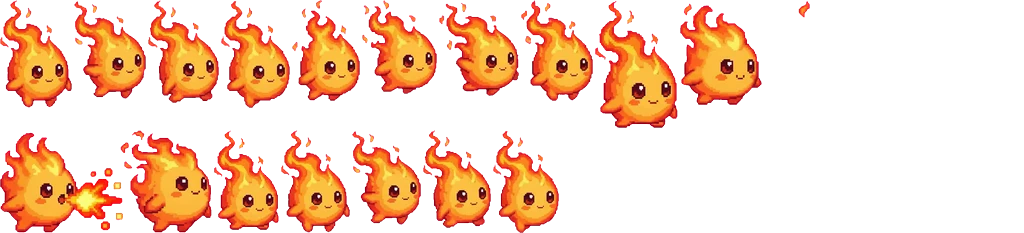
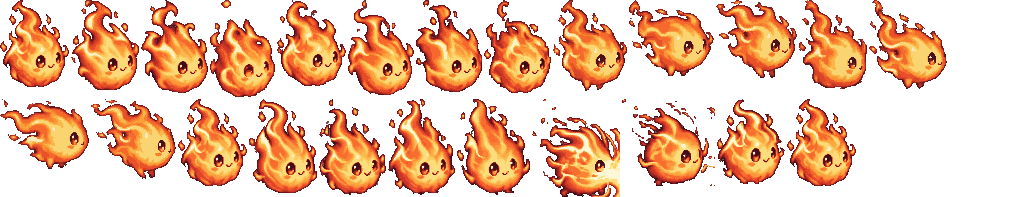
Monstruos de los mundos 1-5 y el Guardián Colmillo Ancestral en el estilo nuevo; versión 1.4.1 (versionCode 7)
Claude-Session: https://claude.ai/code/session_01C2SB4oU3LiuVGzsNuHyfze

diff --git a/www/js/mon_data.js b/www/js/mon_data.js
@@ -1,3 +1,3 @@
 /* Generado por tools/art/build_monsters.py y build_monsters2.py — no editar a mano. */
 'use strict';
-const MON_ANIM = {"tofu":{"bh":100,"move":[[0,0,72,108,38.5,107.3],[74,0,72,99,41.2,99.0],[148,0,71,103,40.2,102.6],[221,0,69,108,36.8,107.3],[292,0,68,101,36.0,100.6],[362,0,75,94,42.4,93.9],[439,0,80,96,48.5,95.8],[521,0,72,101,39.9,101.0]],"attack":[[595,0,83,128,45.5,127.4],[680,0,130,105,41.0,105.1],[0,130,212,103,174.7,102.5]],"hurt":[[214,130,65,100,35.7,100.0]],"idle":[[281,130,69,103,36.7,102.3],[352,130,69,95,39.3,94.3],[423,130,68,98,38.3,97.7],[493,130,66,103,35.0,102.3]]},"bouftou":{"bh":100,"move":[[0,209,101,101,50.5,101.0],[103,209,101,104,50.5,106.0],[206,209,102,107,51.5,111.0],[310,209,100,110,48.5,111.0],[412,209,100,104,48.0,105.0],[514,209,100,102,48.5,103.0],[616,209,101,105,50.5,108.0],[719,209,103,108,51.5,109.0]],"attack":[[0,323,100,104,49.5,104.5],[102,323,99,107,51.5,108.0],[203,323,104,110,53.5,110.0],[309,323,102,109,52.5,109.0],[413,323,102,107,49.5,107.0],[517,323,106,102,53.5,102.0]],"hurt":[[0,545,100,110,48.5,110.0]],"idle":[[0,437,101,101,50.5,101.0],[103,437,101,104,50.5,105.0],[206,437,101,101,50.5,101.0],[309,437,100,104,49.5,105.5]]},"arakne":{"bh":100,"move":[[0,0,110,100,40.5,100.0],[112,0,110,100,40.6,100.0],[224,0,110,100,41.3,100.0],[336,0,110,100,40.7,99.6],[448,0,110,100,41.3,100.0],[560,0,111,100,41.4,99.6],[673,0,110,100,41.1,100.0],[785,0,110,100,42.2,99.6]],"attack":[[897,0,100,101,40.4,100.2],[0,103,123,94,44.1,93.4],[125,103,116,102,57.2,102.1],[243,103,109,100,43.0,99.8]],"hurt":[[354,103,100,100,40.4,100.0]],"idle":[[456,103,110,100,40.5,100.0],[568,103,110,100,40.6,100.0],[680,103,110,100,41.3,100.0],[792,103,110,100,40.7,99.6]]},"pissenlit":{"bh":100,"move":[[0,0,84,100,39.1,99.8],[86,0,81,100,39.0,99.8],[169,0,84,101,42.1,100.2],[255,0,80,97,40.9,96.4],[337,0,84,101,44.1,100.2],[423,0,85,101,44.6,100.2]],"attack":[[510,0,81,100,40.9,100.0],[593,0,81,100,43.3,100.0],[676,0,94,99,57.9,99.1],[772,0,80,101,36.5,100.3]],"hurt":[[854,0,81,100,40.9,100.0]],"idle":[[937,0,84,100,39.2,100.0],[0,103,81,100,39.1,100.0],[83,103,84,101,42.2,100.5],[169,103,80,97,41.0,96.7]]},"craqueleur":{"bh":100,"move":[[0,0,114,101,47.9,100.0],[116,0,106,101,51.2,100.0],[224,0,96,101,35.5,100.6],[322,0,107,101,54.6,100.0],[431,0,91,101,42.3,100.6],[524,0,114,101,46.9,100.0]],"attack":[[640,0,104,97,45.5,96.2],[746,0,95,120,44.5,120.1],[843,0,92,95,47.3,94.5],[0,122,102,104,51.9,103.8]],"hurt":[[104,122,109,100,47.3,100.0]],"idle":[[215,122,114,101,47.9,100.0],[331,122,106,101,51.2,100.0],[439,122,96,101,35.5,100.6],[537,122,107,101,54.6,100.0]]},"bouftouRoyal":{"bh":100,"move":[[0,0,151,100,63.6,99.5],[153,0,151,100,63.4,100.0],[306,0,148,98,63.0,97.1],[456,0,149,100,62.4,99.5],[607,0,149,100,65.9,100.0],[758,0,149,100,63.3,100.0],[0,102,148,100,63.8,100.0],[150,102,148,100,60.7,100.0]],"attack":[[300,102,144,126,55.7,125.2],[446,102,147,98,57.7,97.4],[595,102,152,101,72.0,100.7],[749,102,144,100,66.1,99.3]],"hurt":[[895,102,115,100,44.5,100.0]],"idle":[[0,230,151,100,63.9,100.0],[153,230,151,101,63.7,100.5],[306,230,149,98,63.3,97.6],[457,230,150,100,62.7,100.0]]},"reinaTeje":{"bh":100,"move":[[0,0,136,101,61.5,100.3],[138,0,125,96,65.8,95.5],[265,0,137,100,66.6,99.7],[404,0,139,101,69.5,100.3],[545,0,134,97,66.2,96.2],[681,0,140,101,65.4,100.3]],"attack":[[823,0,132,100,71.3,99.8],[0,103,144,107,74.3,106.3],[146,103,144,101,77.7,100.2],[292,103,132,100,73.0,99.8]],"hurt":[[426,103,132,100,71.4,100.0]],"idle":[[560,103,136,101,61.5,100.3],[698,103,125,96,65.8,95.5],[825,103,137,100,66.6,99.7],[0,212,139,101,69.5,100.3]]},"colosoHielo":{"bh":100,"move":[[0,0,87,101,45.8,100.7],[89,0,90,99,51.7,98.1],[181,0,87,101,43.2,101.1],[270,0,87,100,48.3,99.6],[359,0,79,98,31.5,97.8],[440,0,89,100,41.3,100.0],[531,0,88,100,43.7,100.0],[621,0,87,101,43.5,100.4]],"attack":[[710,0,92,103,40.8,102.6],[804,0,100,105,49.6,104.7],[906,0,96,100,54.7,99.4],[0,107,90,98,42.0,98.0]],"hurt":[[92,107,90,100,39.7,100.0]],"idle":[[184,107,87,101,45.7,100.6],[273,107,90,98,51.6,98.0],[365,107,87,101,43.1,100.9],[454,107,87,100,48.2,99.4]]},"tofuRoyal":{"bh":100,"move":[[0,0,77,100,45.9,100.0],[79,0,79,101,46.6,100.4],[160,0,87,100,43.7,99.6],[249,0,80,92,43.8,92.1],[331,0,75,101,44.3,100.8]],"attack":[[408,0,103,74,40.5,73.4],[513,0,105,91,62.6,90.6],[620,0,104,110,48.5,109.4],[726,0,103,110,65.3,109.4]],"hurt":[[831,0,153,110,60.3,109.2]],"idle":[[0,112,77,101,46.0,100.2],[79,112,79,101,46.7,100.6],[160,112,87,100,43.8,99.8],[249,112,81,93,43.9,92.3]]},"hechicero":{"bh":100,"move":[[0,0,78,83,30.2,82.5],[80,0,83,100,44.3,100.0],[165,0,86,84,38.3,83.5],[253,0,85,100,43.9,100.0],[340,0,69,100,37.6,100.0],[411,0,63,84,28.2,83.5],[476,0,70,100,30.7,100.0]],"attack":[[548,0,56,75,26.8,74.6],[606,0,63,112,22.8,111.3],[671,0,70,130,38.5,129.4],[743,0,64,111,33.3,110.5]],"hurt":[[809,0,75,100,36.0,100.0]],"idle":[[886,0,85,90,32.9,89.9],[0,132,90,110,48.3,109.0],[92,132,94,92,41.8,91.0],[188,132,93,110,47.8,109.0]]},"S_ceniza":{"bh":100,"move":[[0,0,129,101,53.8,100.4],[131,0,129,100,54.5,100.0],[262,0,131,100,53.2,100.0],[395,0,126,100,52.6,100.0],[523,0,128,100,50.9,99.2],[653,0,129,100,53.0,99.6],[784,0,129,100,54.4,99.6],[0,103,127,101,52.3,100.4]],"attack":[[129,103,128,100,54.6,100.0],[259,103,147,100,68.2,100.0],[408,103,150,100,75.4,99.6],[560,103,129,100,55.9,100.0]],"hurt":[[691,103,128,100,54.6,100.0]],"idle":[[821,103,129,101,53.8,100.4],[0,206,129,100,54.5,100.0],[131,206,131,100,53.2,100.0],[264,206,126,100,52.6,100.0]]},"S_pantano":{"bh":100,"move":[[0,0,169,100,67.7,99.7],[171,0,169,100,67.5,99.7],[342,0,168,100,67.0,99.7],[512,0,167,100,67.1,99.7],[681,0,169,101,68.1,100.3],[852,0,169,101,68.1,100.3],[0,103,168,101,67.8,100.3],[170,103,167,101,68.0,100.3]],"attack":[[339,103,312,282,148.3,281.5],[653,103,162,207,76.8,206.5]],"hurt":[[0,387,319,289,152.1,288.7]],"idle":[[321,387,170,101,67.9,100.0],[493,387,170,101,67.7,100.0],[665,387,168,101,67.2,100.0],[835,387,168,101,67.3,100.0]]},"S_glaciar":{"bh":100,"move":[[0,0,68,100,33.1,99.3],[70,0,77,101,38.2,100.2],[149,0,91,101,31.2,100.7],[242,0,107,100,32.4,99.8],[351,0,81,99,29.4,98.4],[434,0,106,103,32.2,102.1]],"attack":[[542,0,76,100,37.2,99.9],[620,0,86,100,51.6,100.1],[708,0,77,131,41.4,130.9],[787,0,95,98,58.0,97.7]],"hurt":[[884,0,76,100,37.3,100.0]],"idle":[[0,133,68,100,33.1,99.3],[70,133,77,101,38.2,100.2],[149,133,91,101,31.2,100.7],[242,133,107,100,32.4,99.8]]},"S_desierto":{"bh":100,"move":[[0,0,66,101,22.2,100.2],[68,0,64,101,22.0,100.2],[134,0,64,100,22.3,99.8],[200,0,67,100,23.7,99.8],[269,0,56,100,21.7,99.8],[327,0,59,101,21.5,100.2]],"attack":[[388,0,83,93,33.2,92.2],[473,0,102,100,23.4,100.0],[577,0,107,105,47.3,104.8],[686,0,90,100,26.5,100.0]],"hurt":[[778,0,90,100,36.0,100.0]],"idle":[[870,0,66,101,22.2,100.2],[938,0,64,101,22.0,100.2],[0,107,64,100,22.3,99.8],[66,107,67,100,23.7,99.8]]},"S_abismo":{"bh":100,"move":[[0,0,75,107,36.3,106.4],[77,0,80,107,41.7,106.4],[159,0,79,107,41.8,106.9],[240,0,78,107,42.3,106.9],[320,0,79,107,41.2,106.9],[401,0,78,108,36.4,107.3],[481,0,78,110,36.0,109.2],[561,0,78,109,36.0,108.7],[641,0,79,110,36.4,109.2],[722,0,78,110,36.3,109.2],[802,0,78,110,36.5,109.2],[882,0,79,110,36.3,109.2]],"attack":[[0,112,78,113,34.8,113.2],[80,112,94,113,31.4,112.5],[176,112,119,113,43.8,112.2],[297,112,92,113,58.0,112.5]],"hurt":[[391,112,77,112,34.4,111.8]],"idle":[[470,112,81,115,39.0,114.2],[553,112,86,115,44.8,114.2],[641,112,85,115,44.9,114.7],[728,112,84,115,45.4,114.7]]},"cangrejo":{"bh":100,"move":[[0,0,125,101,61.5,100.0],[127,0,127,100,51.6,99.3],[256,0,128,101,48.4,100.0],[386,0,125,101,62.1,100.0],[513,0,124,99,60.1,98.7],[639,0,126,101,62.4,100.0]],"attack":[[767,0,136,100,54.6,100.0],[0,103,138,100,54.8,100.0],[140,103,169,106,54.9,105.3],[311,103,137,99,66.5,98.6]],"hurt":[[450,103,136,100,54.6,100.0]],"idle":[[588,103,125,101,61.5,100.0],[715,103,127,100,51.6,99.3],[844,103,128,101,48.4,100.0],[0,211,125,101,62.1,100.0]]},"medusa":{"bh":100,"move":[[0,0,53,102,26.0,101.3],[55,0,48,99,24.8,98.7],[105,0,55,100,29.2,100.1],[162,0,61,100,33.6,100.1],[225,0,64,100,35.8,99.9],[291,0,50,99,23.9,99.0]],"attack":[[343,0,67,104,41.1,103.4],[412,0,81,88,50.1,87.8],[495,0,85,97,52.5,96.6],[582,0,78,105,35.1,104.4]],"hurt":[[662,0,65,100,39.8,100.0]],"idle":[[729,0,53,101,25.9,101.2],[784,0,48,99,24.7,98.6],[834,0,55,100,29.1,100.0],[891,0,61,100,33.6,100.0]]},"triton":{"bh":100,"move":[[0,0,105,100,41.2,99.0],[107,0,105,100,43.4,99.0],[214,0,104,102,41.9,101.4],[320,0,104,100,39.5,99.0],[426,0,105,101,39.3,101.0],[533,0,104,101,38.9,101.0]],"attack":[[639,0,99,97,47.6,97.1],[740,0,109,100,56.8,99.4],[851,0,109,104,52.8,103.9],[0,106,95,101,51.2,100.6]],"hurt":[[97,106,102,100,49.0,100.0]],"idle":[[201,106,106,100,41.6,100.0],[309,106,106,100,43.8,100.0],[417,106,105,103,42.3,102.4],[524,106,105,100,39.8,100.0]]},"kraken":{"bh":100,"move":[[0,0,110,99,59.4,98.4],[112,0,108,104,55.2,103.2],[222,0,103,104,49.0,103.2],[327,0,102,104,53.3,103.2],[431,0,102,100,55.7,100.0],[535,0,104,100,56.3,100.0],[641,0,103,100,55.2,100.0],[746,0,103,100,55.4,100.0]],"attack":[[851,0,98,100,43.9,100.2],[0,106,103,112,55.9,111.1],[105,106,98,96,49.9,95.8],[205,106,86,100,41.8,99.8]],"hurt":[[293,106,98,100,43.8,100.0]],"idle":[[393,106,107,96,57.6,95.4],[502,106,104,100,53.5,100.0],[608,106,100,100,47.5,100.0],[710,106,98,100,51.6,100.0]]},"S_hundida":{"bh":100,"move":[[0,0,74,100,42.3,100.0],[76,0,76,100,43.8,100.0],[154,0,77,100,43.0,100.0],[233,0,75,100,43.2,100.0],[310,0,76,100,44.6,100.0],[388,0,79,100,44.4,100.0]],"attack":[[469,0,78,107,38.8,106.6],[549,0,82,83,39.8,82.7],[633,0,87,106,47.1,105.3],[722,0,80,98,42.2,97.5]],"hurt":[[804,0,73,100,36.4,100.0]],"idle":[[879,0,74,100,42.3,100.0],[0,109,76,100,43.8,100.0],[78,109,77,100,43.0,100.0],[157,109,75,100,43.2,100.0]]},"duende":{"bh":100,"move":[[0,0,76,100,34.3,99.6],[78,0,82,105,40.7,105.0],[162,0,83,107,39.9,107.0],[247,0,84,99,41.0,98.4],[333,0,81,100,40.4,100.0],[416,0,74,100,34.3,100.0]],"attack":[[492,0,83,93,40.1,92.4],[577,0,94,100,35.7,98.3],[673,0,94,102,34.0,101.7],[769,0,82,103,45.6,102.8]],"hurt":[[853,0,90,100,43.4,100.0]],"idle":[[945,0,74,98,33.5,97.3],[0,109,80,103,39.8,102.7],[82,109,81,105,38.9,104.5],[165,109,83,97,40.1,96.2]]},"polilla":{"bh":100,"move":[[0,0,73,106,39.8,105.1],[75,0,18,62,14.0,61.8],[95,0,74,103,28.3,102.4],[171,0,70,101,44.9,100.4],[243,0,26,74,21.9,50.0],[271,0,64,100,29.5,99.6]],"attack":[[337,0,71,98,37.8,97.4],[410,0,80,110,44.9,109.2],[492,0,94,116,39.6,95.4],[588,0,70,103,35.8,102.6]],"hurt":[[660,0,73,100,38.8,100.0]],"idle":[[735,0,72,104,39.3,103.7],[809,0,17,61,13.8,61.0],[828,0,73,101,27.9,101.0],[903,0,70,99,44.3,99.0]]},"golemC":{"bh":100,"move":[[0,0,90,101,45.0,100.2],[92,0,85,100,39.7,99.8],[179,0,91,101,45.4,100.2],[272,0,87,101,37.9,100.2],[361,0,81,100,38.6,99.8],[444,0,90,100,47.7,99.8]],"attack":[[536,0,92,100,42.8,99.4],[630,0,101,101,44.0,100.6],[733,0,101,128,48.8,127.4],[836,0,89,100,49.6,99.4]],"hurt":[[927,0,93,100,43.0,100.0]],"idle":[[0,130,90,100,44.9,100.0],[92,130,85,100,39.7,99.6],[179,130,91,100,45.3,100.0],[272,130,87,100,37.8,100.0]]},"ciervo":{"bh":100,"move":[[0,0,67,100,26.9,100.0],[69,0,69,96,29.4,95.8],[140,0,61,106,24.3,106.0],[203,0,69,101,27.6,100.3],[274,0,73,100,27.1,100.0]],"attack":[[349,0,59,111,27.7,111.1],[410,0,62,95,37.8,94.8],[474,0,62,89,15.2,89.3],[538,0,55,111,23.5,110.7]],"hurt":[[595,0,53,100,24.9,100.0]],"idle":[[650,0,67,100,26.9,99.8],[719,0,69,96,29.3,95.6],[790,0,61,106,24.3,105.9],[853,0,69,100,27.6,100.2]]},"S_cristal":{"bh":100,"move":[[0,0,72,104,39.0,103.7],[74,0,58,103,31.5,102.6],[134,0,64,100,30.6,100.0],[200,0,64,99,27.7,98.9],[266,0,71,104,36.1,104.0]],"attack":[[339,0,64,95,28.6,95.1],[405,0,67,107,39.4,106.7],[474,0,76,98,27.8,97.9],[552,0,70,102,39.2,102.1]],"hurt":[[624,0,67,100,30.1,100.0]],"idle":[[693,0,72,105,39.2,104.3],[767,0,59,103,31.6,103.2],[828,0,65,101,30.8,100.6],[895,0,64,100,27.9,99.4]]},"guardiaR":{"bh":100,"move":[[0,0,64,102,33.1,101.8],[66,0,32,96,16.4,95.6],[100,0,66,99,35.5,98.5],[168,0,66,102,39.8,101.5],[236,0,33,102,25.0,101.5],[271,0,55,99,30.9,98.2]],"attack":[[328,0,99,99,50.6,98.9],[429,0,111,100,50.5,100.0],[542,0,111,100,50.4,100.0],[655,0,101,108,60.9,107.6]],"hurt":[[758,0,100,100,51.2,100.0]],"idle":[[860,0,64,102,33.1,101.8],[926,0,32,96,16.4,95.6],[0,110,66,99,35.5,98.5],[68,110,66,102,39.8,101.5]]},"ojo":{"bh":100,"move":[[0,0,111,101,48.7,100.0],[113,0,107,101,44.5,100.0],[222,0,111,101,48.7,100.0],[335,0,106,101,44.3,100.0],[443,0,111,101,50.5,100.0],[556,0,110,101,56.2,100.0]],"attack":[[668,0,115,101,50.9,100.4],[785,0,119,100,51.9,100.0],[0,103,127,100,55.4,99.6],[129,103,120,100,51.0,100.0]],"hurt":[[251,103,114,100,50.7,100.0]],"idle":[[367,103,111,101,48.7,100.0],[480,103,107,101,44.5,100.0],[589,103,111,101,48.7,100.0],[702,103,106,101,44.3,100.0]]},"sombraC":{"bh":100,"move":[[0,0,73,100,38.6,99.6],[75,0,73,100,38.3,100.0],[150,0,73,98,38.0,98.0],[225,0,72,98,38.1,98.0],[299,0,73,98,37.9,97.7],[374,0,72,98,37.9,97.7],[448,0,75,102,39.1,101.2],[525,0,75,102,39.4,101.2],[602,0,75,102,39.3,101.2],[679,0,76,101,38.1,100.8],[757,0,75,102,39.1,101.2]],"attack":[[834,0,88,100,39.0,100.0],[924,0,90,100,36.8,100.0],[0,104,95,100,44.6,100.0],[97,104,88,98,35.9,97.8]],"hurt":[[187,104,88,100,39.0,100.0]],"idle":[[277,104,74,101,39.1,100.8],[353,104,74,102,38.7,101.2],[429,104,74,100,38.5,99.2],[505,104,73,100,38.5,99.2]]},"carcelero":{"bh":100,"move":[[0,0,68,100,37.5,100.0],[70,0,71,101,42.4,100.4],[143,0,68,100,37.0,99.6],[213,0,70,100,42.3,99.6],[285,0,71,100,39.4,100.0],[358,0,67,101,37.4,100.4]],"attack":[[427,0,97,134,43.8,133.4],[526,0,90,108,33.7,107.6],[618,0,93,93,46.0,92.4],[713,0,108,92,49.4,91.7]],"hurt":[[823,0,73,100,32.8,100.0]],"idle":[[898,0,68,101,37.6,100.2],[0,136,71,101,42.5,100.6],[73,136,68,100,37.0,99.8],[143,136,70,100,42.4,99.8]]},"S_ciudadela":{"bh":100,"move":[[0,0,71,99,35.5,98.9],[73,0,66,103,36.1,102.2],[141,0,66,99,31.9,98.5],[209,0,67,111,37.1,109.3],[278,0,68,104,33.2,103.4],[348,0,70,102,31.6,101.5]],"attack":[[420,0,152,103,28.1,102.8],[574,0,226,108,190.8,107.4]],"hurt":[[802,0,148,100,27.3,100.0]],"idle":[[0,113,73,102,36.4,101.3],[75,113,68,105,37.0,104.8],[145,113,68,101,32.7,101.0],[215,113,69,114,38.1,112.0]]}};
+const MON_ANIM = {"tofu":{"bh":88,"idle":[[0,0,69,87,35.6,88],[71,0,68,90,36.6,90],[141,0,67,93,36.6,93],[210,0,65,97,33.6,98],[277,0,69,86,35.6,87],[348,0,66,95,34.6,95],[416,0,66,92,35.6,92],[484,0,67,93,35.6,94]],"move":[[553,0,74,91,39.6,92],[629,0,85,76,46.6,94],[716,0,81,78,42.6,91],[799,0,68,89,30.6,89],[869,0,78,89,37.6,90],[0,99,89,70,46.6,87],[91,99,85,80,41.6,92]],"attack":[[178,99,69,87,35.6,88],[249,99,68,94,36.6,95],[319,99,67,96,34.6,96],[388,99,67,96,37.6,96],[457,99,73,96,44.6,96],[532,99,88,98,39.6,98],[622,99,93,87,44.6,87],[717,99,68,85,33.6,86]],"hurt":[[787,99,69,87,35.6,88]]},"bouftou":{"bh":100,"idle":[[0,0,105,100,56.1,100],[107,0,106,100,56.1,100],[215,0,108,100,57.1,100],[325,0,112,99,59.1,99],[439,0,113,98,60.1,98],[554,0,114,99,61.1,99],[670,0,115,98,62.1,98],[787,0,112,99,60.1,99]],"move":[[901,0,106,99,57.1,99],[0,102,103,95,55.1,97],[105,102,104,96,56.1,100],[211,102,105,99,56.1,103],[318,102,106,100,57.1,103],[426,102,106,100,57.1,100],[534,102,105,99,56.1,99]],"attack":[[641,102,105,100,56.1,100],[748,102,105,102,59.1,102],[855,102,108,110,63.1,110],[0,214,116,117,61.1,117],[118,214,122,117,64.1,117],[242,214,115,114,57.1,114],[359,214,117,103,60.1,103],[478,214,110,101,57.1,101]],"hurt":[[590,214,105,100,56.1,100]]},"arakne":{"bh":67,"idle":[[0,0,80,67,41.1,67],[82,0,80,67,41.1,67],[164,0,80,68,41.1,68],[246,0,80,67,41.1,67],[328,0,80,67,41.1,67],[410,0,80,67,41.1,67],[492,0,80,68,41.1,68],[574,0,80,67,41.1,67]],"move":[[656,0,82,65,43.1,67],[740,0,85,66,45.1,69],[827,0,77,68,36.1,68],[906,0,80,67,41.1,67],[0,70,82,66,43.1,69],[84,70,86,66,45.1,69],[172,70,82,67,42.1,67]],"attack":[[256,70,80,67,41.1,67],[338,70,73,66,39.1,70],[413,70,72,59,38.1,74],[487,70,74,67,37.1,81],[563,70,84,62,44.1,87],[649,70,88,46,45.1,69],[739,70,85,56,44.1,68],[826,70,84,65,43.1,67]],"hurt":[[912,70,80,67,41.1,67]]},"pissenlit":{"bh":82,"idle":[[0,0,66,81,30.2,82],[68,0,64,78,29.2,79],[134,0,65,82,29.2,83],[201,0,65,87,30.2,88],[268,0,64,91,30.2,92],[334,0,65,90,30.2,91],[401,0,65,87,30.2,88],[468,0,65,84,30.2,85]],"move":[[535,0,66,78,32.2,79],[603,0,66,84,31.2,85],[671,0,66,84,31.2,85],[739,0,65,78,30.2,78],[806,0,66,82,31.2,82],[874,0,67,86,31.2,86],[943,0,66,82,30.2,82]],"attack":[[0,93,66,81,30.2,82],[68,93,70,82,41.2,83],[140,93,67,84,41.2,85],[209,93,62,88,36.2,90],[273,93,64,87,20.2,88],[339,93,64,86,22.2,87],[405,93,66,82,30.2,83],[473,93,65,81,30.2,82]],"hurt":[[540,93,66,81,30.2,82]]},"craqueleur":{"bh":136,"idle":[[0,0,125,136,48.5,136],[127,0,125,143,48.5,143],[254,0,125,147,48.5,147],[381,0,124,135,47.5,135],[507,0,124,134,47.5,134],[633,0,124,141,47.5,141],[759,0,124,135,47.5,135],[885,0,125,135,48.5,135]],"move":[[0,149,125,134,48.5,134],[127,149,123,134,47.5,138],[252,149,121,136,46.5,140],[375,149,116,137,43.5,140],[493,149,113,136,42.5,136],[608,149,108,134,40.5,134],[718,149,105,138,39.5,138]],"attack":[[825,149,125,136,48.5,136],[0,289,133,137,52.5,137],[135,289,138,135,60.5,135],[275,289,133,149,61.5,149],[410,289,145,150,59.5,151],[557,289,119,135,27.5,136],[678,289,116,125,26.5,126],[796,289,119,128,37.5,129]],"hurt":[[0,441,125,136,48.5,136]]},"bouftouRoyal":{"bh":170,"idle":[[0,0,209,170,110.0,170],[211,0,212,170,113.0,170],[425,0,218,170,116.0,170],[645,0,225,169,120.0,169],[0,172,234,168,124.0,168],[236,172,235,168,124.0,168],[473,172,230,168,121.0,168],[705,172,226,168,119.0,168]],"move":[[0,342,213,166,114.0,166],[215,342,211,165,111.0,166],[428,342,208,168,112.0,170],[638,342,210,167,113.0,170],[0,512,214,164,113.0,167],[216,512,210,166,109.0,166],[428,512,204,169,106.0,169]],"attack":[[634,512,209,170,110.0,170],[0,684,220,166,122.0,167],[222,684,220,162,115.0,163],[444,684,223,171,120.0,172],[669,684,212,193,107.0,196],[0,879,228,177,117.0,178],[230,879,238,168,124.0,168],[470,879,238,167,124.0,168]],"leap":[[710,879,209,170,110.0,170],[0,1058,210,167,111.0,167],[212,1058,205,186,113.0,186],[419,1058,191,220,105.0,220],[612,1058,210,182,108.0,182],[0,1280,231,209,118.0,209],[233,1280,228,183,114.0,183],[463,1280,231,175,117.0,175]],"hurt":[[696,1280,209,170,110.0,170]]},"reinaTeje":{"bh":100,"move":[[0,0,136,101,61.5,100.3],[138,0,125,96,65.8,95.5],[265,0,137,100,66.6,99.7],[404,0,139,101,69.5,100.3],[545,0,134,97,66.2,96.2],[681,0,140,101,65.4,100.3]],"attack":[[823,0,132,100,71.3,99.8],[0,103,144,107,74.3,106.3],[146,103,144,101,77.7,100.2],[292,103,132,100,73.0,99.8]],"hurt":[[426,103,132,100,71.4,100.0]],"idle":[[560,103,136,101,61.5,100.3],[698,103,125,96,65.8,95.5],[825,103,137,100,66.6,99.7],[0,212,139,101,69.5,100.3]]},"colosoHielo":{"bh":100,"move":[[0,0,87,101,45.8,100.7],[89,0,90,99,51.7,98.1],[181,0,87,101,43.2,101.1],[270,0,87,100,48.3,99.6],[359,0,79,98,31.5,97.8],[440,0,89,100,41.3,100.0],[531,0,88,100,43.7,100.0],[621,0,87,101,43.5,100.4]],"attack":[[710,0,92,103,40.8,102.6],[804,0,100,105,49.6,104.7],[906,0,96,100,54.7,99.4],[0,107,90,98,42.0,98.0]],"hurt":[[92,107,90,100,39.7,100.0]],"idle":[[184,107,87,101,45.7,100.6],[273,107,90,98,51.6,98.0],[365,107,87,101,43.1,100.9],[454,107,87,100,48.2,99.4]]},"tofuRoyal":{"bh":100,"move":[[0,0,77,100,45.9,100.0],[79,0,79,101,46.6,100.4],[160,0,87,100,43.7,99.6],[249,0,80,92,43.8,92.1],[331,0,75,101,44.3,100.8]],"attack":[[408,0,103,74,40.5,73.4],[513,0,105,91,62.6,90.6],[620,0,104,110,48.5,109.4],[726,0,103,110,65.3,109.4]],"hurt":[[831,0,153,110,60.3,109.2]],"idle":[[0,112,77,101,46.0,100.2],[79,112,79,101,46.7,100.6],[160,112,87,100,43.8,99.8],[249,112,81,93,43.9,92.3]]},"hechicero":{"bh":100,"move":[[0,0,78,83,30.2,82.5],[80,0,83,100,44.3,100.0],[165,0,86,84,38.3,83.5],[253,0,85,100,43.9,100.0],[340,0,69,100,37.6,100.0],[411,0,63,84,28.2,83.5],[476,0,70,100,30.7,100.0]],"attack":[[548,0,56,75,26.8,74.6],[606,0,63,112,22.8,111.3],[671,0,70,130,38.5,129.4],[743,0,64,111,33.3,110.5]],"hurt":[[809,0,75,100,36.0,100.0]],"idle":[[886,0,85,90,32.9,89.9],[0,132,90,110,48.3,109.0],[92,132,94,92,41.8,91.0],[188,132,93,110,47.8,109.0]]},"S_ceniza":{"bh":100,"move":[[0,0,129,101,53.8,100.4],[131,0,129,100,54.5,100.0],[262,0,131,100,53.2,100.0],[395,0,126,100,52.6,100.0],[523,0,128,100,50.9,99.2],[653,0,129,100,53.0,99.6],[784,0,129,100,54.4,99.6],[0,103,127,101,52.3,100.4]],"attack":[[129,103,128,100,54.6,100.0],[259,103,147,100,68.2,100.0],[408,103,150,100,75.4,99.6],[560,103,129,100,55.9,100.0]],"hurt":[[691,103,128,100,54.6,100.0]],"idle":[[821,103,129,101,53.8,100.4],[0,206,129,100,54.5,100.0],[131,206,131,100,53.2,100.0],[264,206,126,100,52.6,100.0]]},"S_pantano":{"bh":100,"move":[[0,0,169,100,67.7,99.7],[171,0,169,100,67.5,99.7],[342,0,168,100,67.0,99.7],[512,0,167,100,67.1,99.7],[681,0,169,101,68.1,100.3],[852,0,169,101,68.1,100.3],[0,103,168,101,67.8,100.3],[170,103,167,101,68.0,100.3]],"attack":[[339,103,312,282,148.3,281.5],[653,103,162,207,76.8,206.5]],"hurt":[[0,387,319,289,152.1,288.7]],"idle":[[321,387,170,101,67.9,100.0],[493,387,170,101,67.7,100.0],[665,387,168,101,67.2,100.0],[835,387,168,101,67.3,100.0]]},"S_glaciar":{"bh":100,"move":[[0,0,68,100,33.1,99.3],[70,0,77,101,38.2,100.2],[149,0,91,101,31.2,100.7],[242,0,107,100,32.4,99.8],[351,0,81,99,29.4,98.4],[434,0,106,103,32.2,102.1]],"attack":[[542,0,76,100,37.2,99.9],[620,0,86,100,51.6,100.1],[708,0,77,131,41.4,130.9],[787,0,95,98,58.0,97.7]],"hurt":[[884,0,76,100,37.3,100.0]],"idle":[[0,133,68,100,33.1,99.3],[70,133,77,101,38.2,100.2],[149,133,91,101,31.2,100.7],[242,133,107,100,32.4,99.8]]},"S_desierto":{"bh":100,"move":[[0,0,66,101,22.2,100.2],[68,0,64,101,22.0,100.2],[134,0,64,100,22.3,99.8],[200,0,67,100,23.7,99.8],[269,0,56,100,21.7,99.8],[327,0,59,101,21.5,100.2]],"attack":[[388,0,83,93,33.2,92.2],[473,0,102,100,23.4,100.0],[577,0,107,105,47.3,104.8],[686,0,90,100,26.5,100.0]],"hurt":[[778,0,90,100,36.0,100.0]],"idle":[[870,0,66,101,22.2,100.2],[938,0,64,101,22.0,100.2],[0,107,64,100,22.3,99.8],[66,107,67,100,23.7,99.8]]},"S_abismo":{"bh":100,"move":[[0,0,75,107,36.3,106.4],[77,0,80,107,41.7,106.4],[159,0,79,107,41.8,106.9],[240,0,78,107,42.3,106.9],[320,0,79,107,41.2,106.9],[401,0,78,108,36.4,107.3],[481,0,78,110,36.0,109.2],[561,0,78,109,36.0,108.7],[641,0,79,110,36.4,109.2],[722,0,78,110,36.3,109.2],[802,0,78,110,36.5,109.2],[882,0,79,110,36.3,109.2]],"attack":[[0,112,78,113,34.8,113.2],[80,112,94,113,31.4,112.5],[176,112,119,113,43.8,112.2],[297,112,92,113,58.0,112.5]],"hurt":[[391,112,77,112,34.4,111.8]],"idle":[[470,112,81,115,39.0,114.2],[553,112,86,115,44.8,114.2],[641,112,85,115,44.9,114.7],[728,112,84,115,45.4,114.7]]},"cangrejo":{"bh":100,"move":[[0,0,125,101,61.5,100.0],[127,0,127,100,51.6,99.3],[256,0,128,101,48.4,100.0],[386,0,125,101,62.1,100.0],[513,0,124,99,60.1,98.7],[639,0,126,101,62.4,100.0]],"attack":[[767,0,136,100,54.6,100.0],[0,103,138,100,54.8,100.0],[140,103,169,106,54.9,105.3],[311,103,137,99,66.5,98.6]],"hurt":[[450,103,136,100,54.6,100.0]],"idle":[[588,103,125,101,61.5,100.0],[715,103,127,100,51.6,99.3],[844,103,128,101,48.4,100.0],[0,211,125,101,62.1,100.0]]},"medusa":{"bh":100,"move":[[0,0,53,102,26.0,101.3],[55,0,48,99,24.8,98.7],[105,0,55,100,29.2,100.1],[162,0,61,100,33.6,100.1],[225,0,64,100,35.8,99.9],[291,0,50,99,23.9,99.0]],"attack":[[343,0,67,104,41.1,103.4],[412,0,81,88,50.1,87.8],[495,0,85,97,52.5,96.6],[582,0,78,105,35.1,104.4]],"hurt":[[662,0,65,100,39.8,100.0]],"idle":[[729,0,53,101,25.9,101.2],[784,0,48,99,24.7,98.6],[834,0,55,100,29.1,100.0],[891,0,61,100,33.6,100.0]]},"triton":{"bh":100,"move":[[0,0,105,100,41.2,99.0],[107,0,105,100,43.4,99.0],[214,0,104,102,41.9,101.4],[320,0,104,100,39.5,99.0],[426,0,105,101,39.3,101.0],[533,0,104,101,38.9,101.0]],"attack":[[639,0,99,97,47.6,97.1],[740,0,109,100,56.8,99.4],[851,0,109,104,52.8,103.9],[0,106,95,101,51.2,100.6]],"hurt":[[97,106,102,100,49.0,100.0]],"idle":[[201,106,106,100,41.6,100.0],[309,106,106,100,43.8,100.0],[417,106,105,103,42.3,102.4],[524,106,105,100,39.8,100.0]]},"kraken":{"bh":100,"move":[[0,0,110,99,59.4,98.4],[112,0,108,104,55.2,103.2],[222,0,103,104,49.0,103.2],[327,0,102,104,53.3,103.2],[431,0,102,100,55.7,100.0],[535,0,104,100,56.3,100.0],[641,0,103,100,55.2,100.0],[746,0,103,100,55.4,100.0]],"attack":[[851,0,98,100,43.9,100.2],[0,106,103,112,55.9,111.1],[105,106,98,96,49.9,95.8],[205,106,86,100,41.8,99.8]],"hurt":[[293,106,98,100,43.8,100.0]],"idle":[[393,106,107,96,57.6,95.4],[502,106,104,100,53.5,100.0],[608,106,100,100,47.5,100.0],[710,106,98,100,51.6,100.0]]},"S_hundida":{"bh":100,"move":[[0,0,74,100,42.3,100.0],[76,0,76,100,43.8,100.0],[154,0,77,100,43.0,100.0],[233,0,75,100,43.2,100.0],[310,0,76,100,44.6,100.0],[388,0,79,100,44.4,100.0]],"attack":[[469,0,78,107,38.8,106.6],[549,0,82,83,39.8,82.7],[633,0,87,106,47.1,105.3],[722,0,80,98,42.2,97.5]],"hurt":[[804,0,73,100,36.4,100.0]],"idle":[[879,0,74,100,42.3,100.0],[0,109,76,100,43.8,100.0],[78,109,77,100,43.0,100.0],[157,109,75,100,43.2,100.0]]},"duende":{"bh":100,"move":[[0,0,76,100,34.3,99.6],[78,0,82,105,40.7,105.0],[162,0,83,107,39.9,107.0],[247,0,84,99,41.0,98.4],[333,0,81,100,40.4,100.0],[416,0,74,100,34.3,100.0]],"attack":[[492,0,83,93,40.1,92.4],[577,0,94,100,35.7,98.3],[673,0,94,102,34.0,101.7],[769,0,82,103,45.6,102.8]],"hurt":[[853,0,90,100,43.4,100.0]],"idle":[[945,0,74,98,33.5,97.3],[0,109,80,103,39.8,102.7],[82,109,81,105,38.9,104.5],[165,109,83,97,40.1,96.2]]},"polilla":{"bh":100,"move":[[0,0,73,106,39.8,105.1],[75,0,18,62,14.0,61.8],[95,0,74,103,28.3,102.4],[171,0,70,101,44.9,100.4],[243,0,26,74,21.9,50.0],[271,0,64,100,29.5,99.6]],"attack":[[337,0,71,98,37.8,97.4],[410,0,80,110,44.9,109.2],[492,0,94,116,39.6,95.4],[588,0,70,103,35.8,102.6]],"hurt":[[660,0,73,100,38.8,100.0]],"idle":[[735,0,72,104,39.3,103.7],[809,0,17,61,13.8,61.0],[828,0,73,101,27.9,101.0],[903,0,70,99,44.3,99.0]]},"golemC":{"bh":100,"move":[[0,0,90,101,45.0,100.2],[92,0,85,100,39.7,99.8],[179,0,91,101,45.4,100.2],[272,0,87,101,37.9,100.2],[361,0,81,100,38.6,99.8],[444,0,90,100,47.7,99.8]],"attack":[[536,0,92,100,42.8,99.4],[630,0,101,101,44.0,100.6],[733,0,101,128,48.8,127.4],[836,0,89,100,49.6,99.4]],"hurt":[[927,0,93,100,43.0,100.0]],"idle":[[0,130,90,100,44.9,100.0],[92,130,85,100,39.7,99.6],[179,130,91,100,45.3,100.0],[272,130,87,100,37.8,100.0]]},"ciervo":{"bh":100,"move":[[0,0,67,100,26.9,100.0],[69,0,69,96,29.4,95.8],[140,0,61,106,24.3,106.0],[203,0,69,101,27.6,100.3],[274,0,73,100,27.1,100.0]],"attack":[[349,0,59,111,27.7,111.1],[410,0,62,95,37.8,94.8],[474,0,62,89,15.2,89.3],[538,0,55,111,23.5,110.7]],"hurt":[[595,0,53,100,24.9,100.0]],"idle":[[650,0,67,100,26.9,99.8],[719,0,69,96,29.3,95.6],[790,0,61,106,24.3,105.9],[853,0,69,100,27.6,100.2]]},"S_cristal":{"bh":100,"move":[[0,0,72,104,39.0,103.7],[74,0,58,103,31.5,102.6],[134,0,64,100,30.6,100.0],[200,0,64,99,27.7,98.9],[266,0,71,104,36.1,104.0]],"attack":[[339,0,64,95,28.6,95.1],[405,0,67,107,39.4,106.7],[474,0,76,98,27.8,97.9],[552,0,70,102,39.2,102.1]],"hurt":[[624,0,67,100,30.1,100.0]],"idle":[[693,0,72,105,39.2,104.3],[767,0,59,103,31.6,103.2],[828,0,65,101,30.8,100.6],[895,0,64,100,27.9,99.4]]},"guardiaR":{"bh":100,"move":[[0,0,64,102,33.1,101.8],[66,0,32,96,16.4,95.6],[100,0,66,99,35.5,98.5],[168,0,66,102,39.8,101.5],[236,0,33,102,25.0,101.5],[271,0,55,99,30.9,98.2]],"attack":[[328,0,99,99,50.6,98.9],[429,0,111,100,50.5,100.0],[542,0,111,100,50.4,100.0],[655,0,101,108,60.9,107.6]],"hurt":[[758,0,100,100,51.2,100.0]],"idle":[[860,0,64,102,33.1,101.8],[926,0,32,96,16.4,95.6],[0,110,66,99,35.5,98.5],[68,110,66,102,39.8,101.5]]},"ojo":{"bh":100,"move":[[0,0,111,101,48.7,100.0],[113,0,107,101,44.5,100.0],[222,0,111,101,48.7,100.0],[335,0,106,101,44.3,100.0],[443,0,111,101,50.5,100.0],[556,0,110,101,56.2,100.0]],"attack":[[668,0,115,101,50.9,100.4],[785,0,119,100,51.9,100.0],[0,103,127,100,55.4,99.6],[129,103,120,100,51.0,100.0]],"hurt":[[251,103,114,100,50.7,100.0]],"idle":[[367,103,111,101,48.7,100.0],[480,103,107,101,44.5,100.0],[589,103,111,101,48.7,100.0],[702,103,106,101,44.3,100.0]]},"sombraC":{"bh":100,"move":[[0,0,73,100,38.6,99.6],[75,0,73,100,38.3,100.0],[150,0,73,98,38.0,98.0],[225,0,72,98,38.1,98.0],[299,0,73,98,37.9,97.7],[374,0,72,98,37.9,97.7],[448,0,75,102,39.1,101.2],[525,0,75,102,39.4,101.2],[602,0,75,102,39.3,101.2],[679,0,76,101,38.1,100.8],[757,0,75,102,39.1,101.2]],"attack":[[834,0,88,100,39.0,100.0],[924,0,90,100,36.8,100.0],[0,104,95,100,44.6,100.0],[97,104,88,98,35.9,97.8]],"hurt":[[187,104,88,100,39.0,100.0]],"idle":[[277,104,74,101,39.1,100.8],[353,104,74,102,38.7,101.2],[429,104,74,100,38.5,99.2],[505,104,73,100,38.5,99.2]]},"carcelero":{"bh":100,"move":[[0,0,68,100,37.5,100.0],[70,0,71,101,42.4,100.4],[143,0,68,100,37.0,99.6],[213,0,70,100,42.3,99.6],[285,0,71,100,39.4,100.0],[358,0,67,101,37.4,100.4]],"attack":[[427,0,97,134,43.8,133.4],[526,0,90,108,33.7,107.6],[618,0,93,93,46.0,92.4],[713,0,108,92,49.4,91.7]],"hurt":[[823,0,73,100,32.8,100.0]],"idle":[[898,0,68,101,37.6,100.2],[0,136,71,101,42.5,100.6],[73,136,68,100,37.0,99.8],[143,136,70,100,42.4,99.8]]},"S_ciudadela":{"bh":100,"move":[[0,0,71,99,35.5,98.9],[73,0,66,103,36.1,102.2],[141,0,66,99,31.9,98.5],[209,0,67,111,37.1,109.3],[278,0,68,104,33.2,103.4],[348,0,70,102,31.6,101.5]],"attack":[[420,0,152,103,28.1,102.8],[574,0,226,108,190.8,107.4]],"hurt":[[802,0,148,100,27.3,100.0]],"idle":[[0,113,73,102,36.4,101.3],[75,113,68,105,37.0,104.8],[145,113,68,101,32.7,101.0],[215,113,69,114,38.1,112.0]]}};

diff --git a/www/js/qol.js b/www/js/qol.js
@@ -12,7 +12,7 @@ let TXT_BIG = false, TXT_HUD = false; // texto grande (se copia de OPT en applyO
 // ---------- panel ----------
 document.body.insertAdjacentHTML('beforeend', `<div id="optPanel" class="run-pick">
   <div class="rp-box opt-box">
-    <div class="rp-head"><b>Ajustes</b><small class="opt-ver">Versión 1.4 · 31-oct</small></div>
+    <div class="rp-head"><b>Ajustes</b><small class="opt-ver">Versión 1.4.1 · 3-nov</small></div>
     <label class="opt-row"><span><b>Ataque automático</b><small>Atacas solo al tener un enemigo a tu alcance</small></span><input type="checkbox" data-o="autoAtk"></label>
     <label class="opt-row"><span><b>Música</b></span><input type="range" min="0" max="1" step="0.05" data-o="music"></label>
     <label class="opt-row"><span><b>Efectos de sonido</b></span><input type="range" min="0" max="1" step="0.05" data-o="sfx"></label>

diff --git a/www/js/en/qol.js b/www/js/en/qol.js
@@ -12,7 +12,7 @@ let TXT_BIG = false, TXT_HUD = false; // texto grande (se copia de OPT en applyO
 // ---------- panel ----------
 document.body.insertAdjacentHTML('beforeend', `<div id="optPanel" class="run-pick">
   <div class="rp-box opt-box">
-    <div class="rp-head"><b>Settings</b><small class="opt-ver">Version 1.4 · Oct 31</small></div>
+    <div class="rp-head"><b>Settings</b><small class="opt-ver">Version 1.4.1 · Nov 3</small></div>
     <label class="opt-row"><span><b>Auto-attack</b><small>Attack automatically when an enemy is in range</small></span><input type="checkbox" data-o="autoAtk"></label>
     <label class="opt-row"><span><b>Music</b></span><input type="range" min="0" max="1" step="0.05" data-o="music"></label>
     <label class="opt-row"><span><b>Sound effects</b></span><input type="range" min="0" max="1" step="0.05" data-o="sfx"></label>

diff --git a/www/index.html b/www/index.html
@@ -35,7 +35,7 @@
     <div class="t-rays"></div>
     <img class="t-logo" src="img/logo.png" alt="Fendaria · Las Grietas Rúnicas" />
     <div class="t-tap">Toca para empezar</div>
-    <div class="t-ver">v1.4 · 31-oct</div>
+    <div class="t-ver">v1.4.1 · 3-nov</div>
   </div>
 
   <!-- Menú principal -->

diff --git a/www/index_en.html b/www/index_en.html
@@ -35,7 +35,7 @@
     <div class="t-rays"></div>
     <img class="t-logo" src="img/logo_en.png" alt="Fendaria · The Runic Rifts" />
     <div class="t-tap">Tap to start</div>
-    <div class="t-ver">v1.4 · 31-oct</div>
+    <div class="t-ver">v1.4.1 · 3-nov</div>
   </div>
 
   <!-- Menú principal -->

diff --git a/tools/art/VIERNES.md b/tools/art/VIERNES.md
@@ -37,7 +37,10 @@ Paquete de 1000 recomendado YA (no caduca) para validar el estilo con Kara antes
 - [ ] Reposo + caminar de cada uno
 
 ## 4. Efectos de habilidades
-- [ ] Estelas, explosiones, rayos y runas animadas propias de cada héroe (sustituyen a los efectos actuales)
+- [x] (3-nov, ≈ 70 créditos) Los 11 efectos del atlas `img/fx/vfx.png` en el estilo nuevo (`tools/art/sc_vfx.py`): pintados quietos y animados
+      por el script (giro, crecer, subir, apagarse); el lobo espectral con animación de carrera de SpriteCook. Mismos nombres: el juego no cambia
+- [x] Iconos propios de las 14 habilidades y 7 definitivas nuevas del Grimorio (≈ 72 créditos, `tools/art/sc_icons.py`)
+- [ ] Efectos propios por héroe (cadena, martillo rúnico, orbe, cohetes…): hoy reutilizan los 11 del atlas
 
 ## 5. Interfaz (≈ 250 créditos + ≈ 120 del árbol de talentos)
 - [ ] Kit completo: marcos, botones, barras, iconos de habilidad propios de cada héroe
@@ -224,6 +227,12 @@ Eliges qué habilidad va en cada botón y qué definitiva llevas. Gratis en Vill
 | Árbol de talentos (fondos, marcos, uniones, iconos) | 120 |
 | Efectos de habilidades de héroes | 150 |
 | **Total** | **≈ 3760** (sobran ~240 para repetir lo que no salga bien) |
+
+## Monstruos en el estilo nuevo (3-nov, ≈ 476 créditos)
+- [x] Los 5 monstruos de los mundos 1–5 (Tofu, Jabalí, Araña, Seta, Gólem): reposo 8, caminar 7, ataque 8 con preparación visible (`tools/art/sc_mon_atlas.py`)
+- [x] Guardián del mundo 1, Colmillo Ancestral: reposo, caminar, embestida y salto aplastante (pose `leap` en el motor, pegada al suelo: la altura la pone el juego)
+- [ ] Revisar en el móvil · el trote del Jabalí se mueve poco · en los mundos 2–5 el filtro de color del bioma los tiñe a propósito (variedad); decidir si se suaviza
+- [ ] Guardianes 2–8, Súper Jefes y los monstruos de los mundos 6–8 (9 tipos): próxima recarga
 
 ## Segunda recarga
 - [ ] Monstruos normales (~40) con caminar 8, ataque 8, golpe 3, muerte 6
